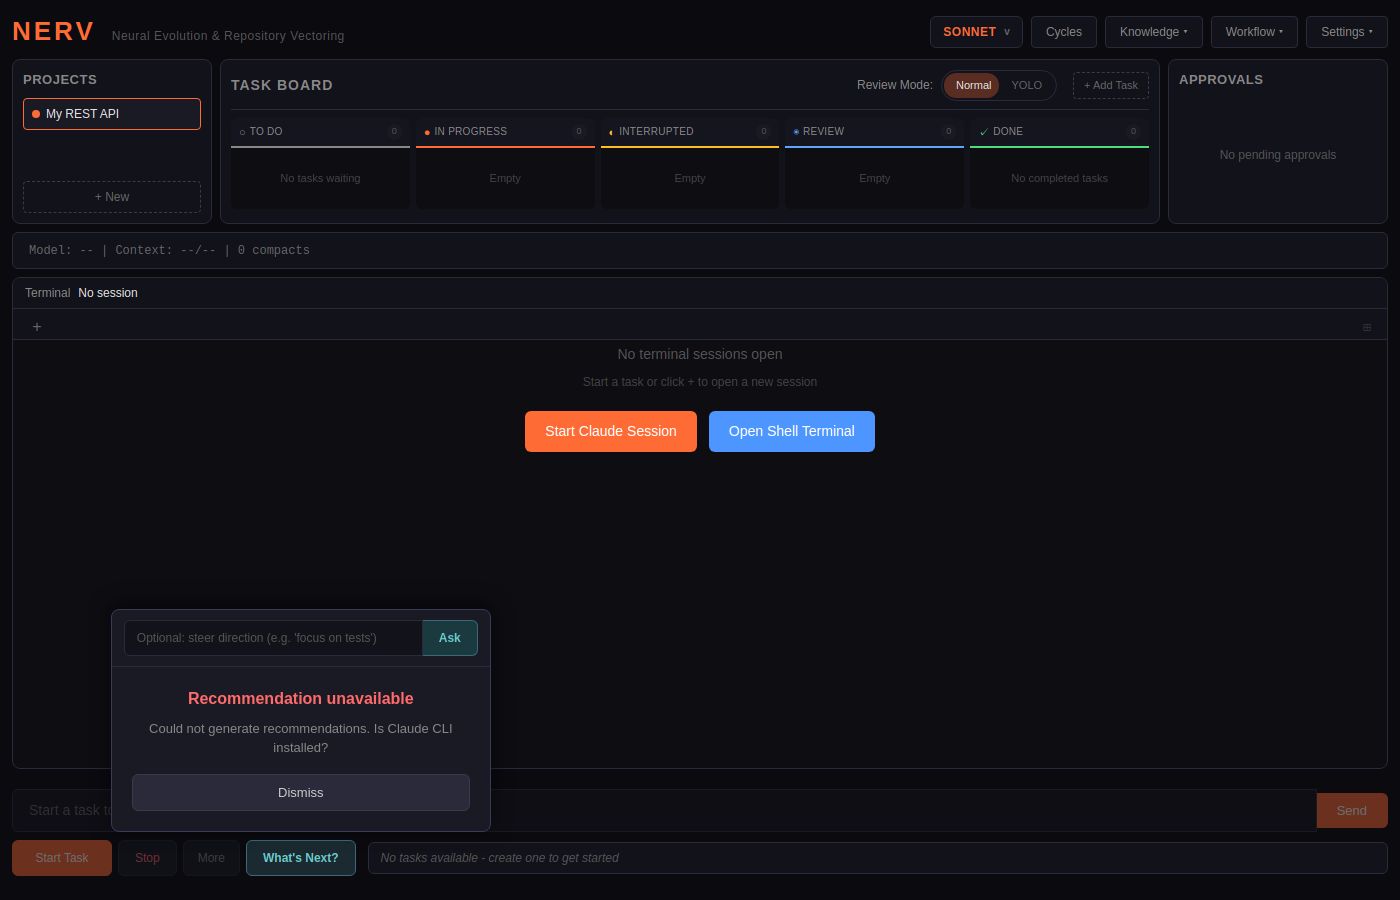
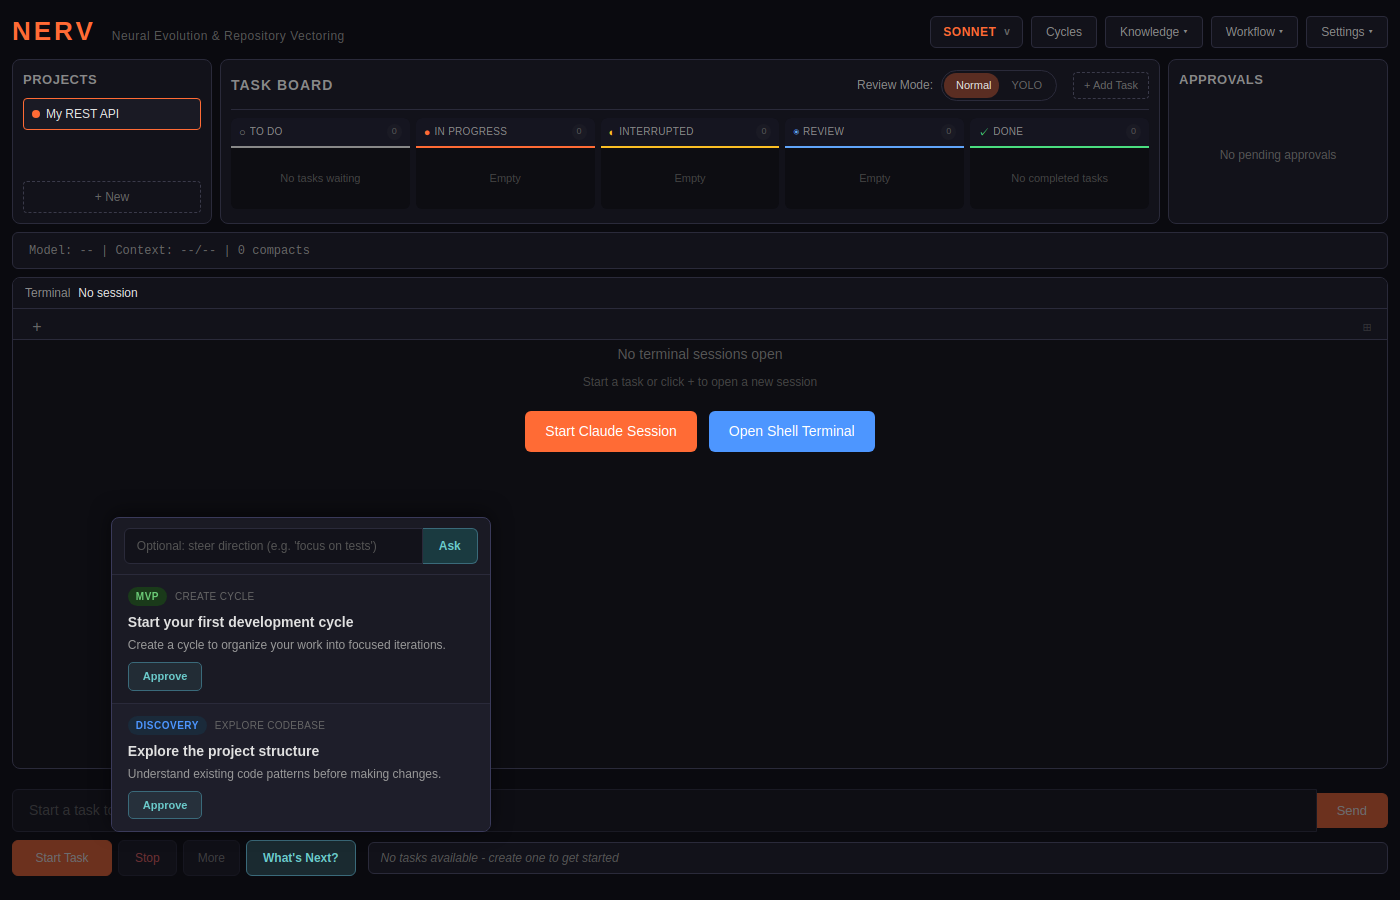
Mock recommend responses in test mode, fix screenshot showing cards
callClaude() now returns realistic mock recommendations when
NERV_MOCK_CLAUDE or NERV_TEST_MODE is set, instead of failing
with "Claude CLI not installed". Mock responses are context-aware:
no cycle → suggest create_cycle, no tasks → suggest create_task,
otherwise → suggest start_task/run_audit.

Screenshot now shows recommendation cards with Approve buttons.

Changed region(s): [[0.0921, 0.6533, 0.3379, 0.9022], [0.2764, 0.56, 0.3686, 0.6533], [0.0921, 0.5911, 0.2457, 0.6222]]

diff --git a/src/main/ipc/recommend-handlers.ts b/src/main/ipc/recommend-handlers.ts
@@ -66,6 +66,28 @@ function gatherContext(projectId: string, direction?: string): RecommendContext 
 }
 
 function callClaude(prompt: string): string {
+  // In mock/test mode, return realistic sample recommendations
+  if (process.env.NERV_MOCK_CLAUDE === '1' || process.env.NERV_TEST_MODE === '1') {
+    const hasCycle = prompt.includes('Cycle: #')
+    const hasTasks = prompt.includes('todo:') || prompt.includes('in_progress:')
+    if (!hasCycle) {
+      return JSON.stringify([
+        { phase: 'mvp', action: 'create_cycle', title: 'Start your first development cycle', description: 'Create a cycle to organize your work into focused iterations.', details: 'A cycle groups related tasks. Start with a small MVP scope.', params: { cycleGoal: 'MVP: Core functionality with tests' } },
+        { phase: 'discovery', action: 'explore_codebase', title: 'Explore the project structure', description: 'Understand existing code patterns before making changes.', details: 'Look at entry points, dependencies, and test coverage.' },
+      ])
+    }
+    if (!hasTasks) {
+      return JSON.stringify([
+        { phase: 'mvp', action: 'create_task', title: 'Implement core feature', description: 'Create a task for the main functionality.', details: 'Focus on the critical path first.', params: { taskTitle: 'Implement core feature', taskType: 'implementation' } },
+        { phase: 'mvp', action: 'create_task', title: 'Add integration tests', description: 'Ensure the core feature works end-to-end.', details: 'Write tests that cover the happy path.', params: { taskTitle: 'Add integration tests', taskType: 'implementation' } },
+      ])
+    }
+    return JSON.stringify([
+      { phase: 'building', action: 'start_task', title: 'Start working on the next task', description: 'Pick up the highest priority todo task.', details: 'Claude will work in an isolated worktree.' },
+      { phase: 'building', action: 'run_audit', title: 'Audit code health', description: 'Check code quality and test coverage.', details: 'Review recent changes for issues.' },
+    ])
+  }
+
   return execSync(
     'claude --print --model sonnet --max-turns 1',
     {
